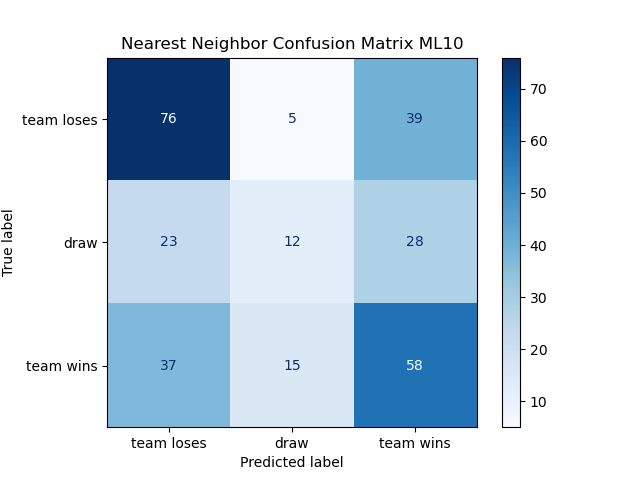
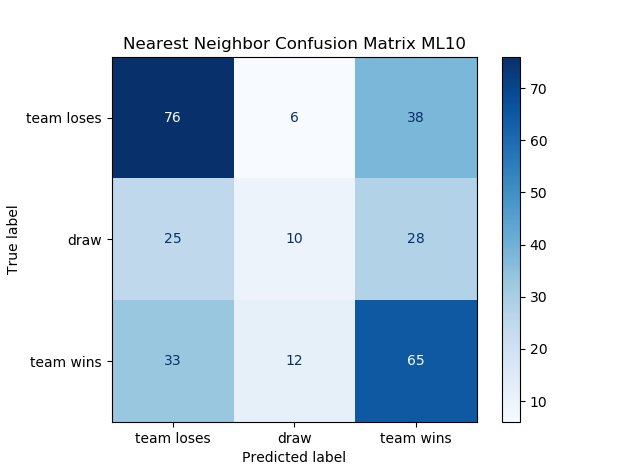
Readme Update

diff --git a/README.md b/README.md
@@ -74,11 +74,11 @@ A range of algorithms were selected and tested from the module scikit-learn. All
 
 ## Evaluation
 
-Along with cross-validation accuracy, confusion matrices were initially used to evaluate model performance, displayed in figure 2 below.
+Along with cross-validation accuracy, confusion matrices plotting the results of 5-fold cross-validation were initially used to evaluate model performance, displayed in figure 2 below.
 
 <img src="https://raw.githubusercontent.com/mhaythornthwaite/Football_Prediction_Project/master/figures/all_conf_matrix.PNG" alt="Figure 2">
 
-<em>Figure 2. (a) Confusion matrix of the random forest model - 49.5%, (b) confusion matrix of the nearest neighbour model, 49.8%, (c) confusion matrix of the SVM model, 46.4% </em>
+<em>Figure 2. (a) Confusion matrix of the random forest model - 50.8%, (b) confusion matrix of the SVM model, 46.4% (c) confusion matrix of the nearest neighbour model, 51.5% </em>
 
 Immediate inspection of these matrices shows all three models are performing poorly when predicting a draw. Both nearest neighbour and SVM are more incorrect that correct when predicting a draw and the random forest classifier only predicts a single draw from nearly 300 fixtures. To understand why this was occurring, the features as displayed in figure 1 were re-plotted to display only draws. It was hypothesised that equally matched teams would draw more often and therefore data clusters were expected around the dashed red line denoting equally matched teams. It is clear however, that in this database containing results from 2019 and 2020, the distribution of drawn matches appears somewhat randomly. Given the relative infrequency of draws (approx. 1 in 5 matches) and the random nature of the outcome in this database, it is no surprise the models do a poor job of predicting them.
 
@@ -86,6 +86,13 @@ Immediate inspection of these matrices shows all three models are performing poo
 
 <em>Figure 3. Cross-plotted features only where the outcome was a draw. Notice the seemingly random nature of the distribution</em>
 
+Both the random forest and nearest neighbour model satisfy the first aim of the study - achieve a test accuracy of 50%. As the SVM model did not satisfy this objective, the model was no longer considered for further analysis. 
+
+In order to satisfy the second objective, the model's probabilities need to be reliable. This was studied in figure 4, showing a histogram of correct and incorrect predictions given a predictions probability. A good quality model should output probabilities that are reliable and consistent with the outcome e.g. 60% probability should be correct 60% of the time. This appears to be the case with the random forest model however, the nearest neighbour model has some anomalous results. For example, predictions with a probability of 80% - 82.5% appear to be more incorrect than they are correct. It is for this reason; the random forest model was preferred over the nearest neighbour model.
+
+<img src="https://raw.githubusercontent.com/mhaythornthwaite/Football_Prediction_Project/master/figures/pred_probability_rf_knn.PNG" alt="Figure 4">
+
+<em>Figure 4. Histogram of both correct (green) and incorrect (red) predictions given a predictions probability (note, the colour fill is transparent to show overlap). In order to achieve a stable result, 50 iterations of model building using random train-test splits were completed. </em>
 
 
 
